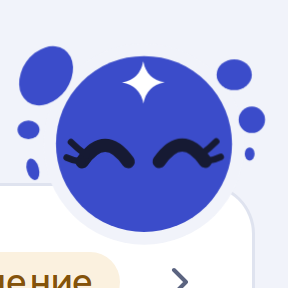
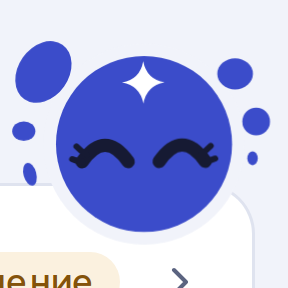
Инвиктия: новое имя, «живые» волосы, ресницы короче
- Маскот переименован в Инвиктию (интерфейс, промпт помощника — в женском роде)
- Волосы-кружочки плавают каждый по-своему; без анимации при prefers-reduced-motion
- Ресницы на 25 % короче

Журнал — запись 55.

diff --git a/src/components/mascots.tsx b/src/components/mascots.tsx
@@ -4,14 +4,14 @@ import type { Achievements } from "@/server/dal/achievements";
 
 export type MascotId = "invictus" | "claude" | "codex" | "dot" | "owl" | "runner" | "rocket" | "cat" | "compass";
 /**
- * Чем открывается: ачивка с сервера, «навигатор» (дошёл до конца трёх маршрутов) или «вопрос» (спросил Инвиктуса) —
+ * Чем открывается: ачивка с сервера, «навигатор» (дошёл до конца трёх маршрутов) или «вопрос» (спросил Инвиктию) —
  * эти два считает браузер; null — открыт сразу.
  */
 export type Unlock = keyof Achievements | "navigator" | "asked" | null;
 
 export const MASCOTS: { id: MascotId; name: string; about: string; unlock: Unlock; hint?: string }[] = [
-  { id: "invictus", name: "Инвиктус", about: "Наша помощница: звёзды в глазах, всегда знает дорогу", unlock: null },
-  { id: "claude", name: "Искорка", about: "Оранжевая подружка Инвиктуса", unlock: "asked", hint: "задать вопрос Инвиктусу" },
+  { id: "invictus", name: "Инвиктия", about: "Наша помощница: звёзды в глазах, всегда знает дорогу", unlock: null },
+  { id: "claude", name: "Искорка", about: "Оранжевая подружка Инвиктии", unlock: "asked", hint: "задать вопрос Инвиктии" },
   { id: "codex", name: "Терминал", about: "Командная строка на ножках", unlock: null },
   { id: "dot", name: "Точка", about: "Просто точка, без лишнего", unlock: null },
   { id: "owl", name: "Сова", about: "Для круглых отличников", unlock: "excellent", hint: "все оценки прошлой сессии «5»" },
@@ -35,7 +35,7 @@ const Eyes = ({ y = -2, dx = 3.2, r = 1.3 }: { y?: number; dx?: number; r?: numb
   </>
 );
 
-/** Звезда Инвиктуса: четырёхлучевая, как на кнопке помощника. На лбу, маленькая — в зрачках. */
+/** Звезда Инвиктии: четырёхлучевая, как на кнопке помощника. На лбу, маленькая — в зрачках. */
 export const STAR_EYE = "M0 -4.6Q0.7 -0.7 4.6 0Q0.7 0.7 0 4.6Q-0.7 0.7 -4.6 0Q-0.7 -0.7 0 -4.6Z";
 
 /** Глаз-«миндалина» (левый; правый — зеркально): острый кончик сверху снаружи и снизу у переносицы. */
@@ -50,7 +50,7 @@ const LASHES =
   "M-2.25 -1Q-2.9 -1 -3.5 -1.05Q-2.9 -0.6 -2.2 -0.5Z";
 
 /**
- * Лицо Инвиктуса в координатах головы (центр 0, 0; радиус 8): звезда на лбу и глаза — открытые
+ * Лицо Инвиктии в координатах головы (центр 0, 0; радиус 8): звезда на лбу и глаза — открытые
  * (белок, тёмная радужка, звезда-зрачок, ресницы) или весёлые закрытые «^ ^» — их включают .mascot-lit и .mascot-joy.
  * Зрачки помечены data-pupil: кнопка помощника сдвигает их к курсору (data-flip — зеркальный правый глаз).
  */
@@ -68,35 +68,51 @@ export function InvictusFace() {
                 <path d={STAR_EYE} transform="translate(0.1 0.1) scale(0.22)" className="fill-m-ic-glyph" />
               </g>
               <path d={LINER} strokeWidth={0.55} strokeLinecap="round" className="fill-none stroke-m-pupil" />
-              <path d={LASHES} strokeWidth={0.25} strokeLinejoin="round" className="fill-m-pupil stroke-m-pupil" />
+              {/* Ресницы чуть короче нарисованных: масштаб к основанию у края глаза. */}
+              <path d={LASHES} transform="translate(-2.1 -1.8) scale(0.75) translate(2.1 1.8)" strokeWidth={0.25} strokeLinejoin="round" className="fill-m-pupil stroke-m-pupil" />
             </g>
           </g>
         ))}
       </g>
       <g className="mascot-eyes-happy">
         <path d="M-5.6 1.6Q-3.5 -1.4 -1.4 1.6M1.4 1.6Q3.5 -1.4 5.6 1.6" strokeWidth={1.2} strokeLinecap="round" className="fill-none stroke-m-pupil" />
-        <path d="M-5.2 1Q-6 0.4 -6.6 -0.2M-5.6 1.6Q-6.4 1.5 -7 1.2M5.2 1Q6 0.4 6.6 -0.2M5.6 1.6Q6.4 1.5 7 1.2" strokeWidth={0.6} strokeLinecap="round" className="fill-none stroke-m-pupil" />
+        <path d="M-5.2 1Q-5.7 0.6 -6.1 0.2M-5.6 1.6Q-6.1 1.55 -6.5 1.35M5.2 1Q5.7 0.6 6.1 0.2M5.6 1.6Q6.1 1.55 6.5 1.35" strokeWidth={0.55} strokeLinecap="round" className="fill-none stroke-m-pupil" />
       </g>
     </>
   );
 }
 
-/** Волосы Инвиктуса — кружочки вокруг головы, отдельно от неё (как на наброске). Координаты головы. */
+/**
+ * Волосы Инвиктии — кружочки вокруг головы, отдельно от неё (как на наброске). Координаты головы.
+ * Каждый кружок плавает по-своему (.mascot-hair, своя амплитуда, длительность и задержка) — волосы «живые».
+ */
+const HAIR: { el: React.ReactElement; dx: number; dy: number; dur: number; delay: number }[] = [
+  { el: <ellipse cx={-8.9} cy={-6.2} rx={2.2} ry={2.9} transform="rotate(35 -8.9 -6.2)" />, dx: -0.63, dy: -0.9, dur: 3.2, delay: 0 },
+  { el: <ellipse cx={8.2} cy={-6.3} rx={1.6} ry={1.4} />, dx: 0.72, dy: -0.72, dur: 2.7, delay: -0.9 },
+  { el: <circle cx={9.8} cy={-2.2} r={1.2} />, dx: 0.9, dy: 0.36, dur: 2.3, delay: -1.6 },
+  { el: <ellipse cx={9.6} cy={0.9} rx={0.45} ry={0.6} />, dx: 0.54, dy: 0.81, dur: 1.9, delay: -0.4 },
+  { el: <ellipse cx={-10.5} cy={-1.3} rx={1} ry={0.85} />, dx: -0.9, dy: 0.27, dur: 2.5, delay: -1.2 },
+  { el: <ellipse cx={-10.1} cy={2.3} rx={0.55} ry={1} transform="rotate(-15 -10.1 2.3)" />, dx: -0.54, dy: 0.9, dur: 2.1, delay: -0.7 },
+];
+
 export function InvictusHair() {
   return (
     <g className="fill-brand-fill">
-      <ellipse cx={-8.9} cy={-6.2} rx={2.2} ry={2.9} transform="rotate(35 -8.9 -6.2)" />
-      <ellipse cx={8.2} cy={-6.3} rx={1.6} ry={1.4} />
-      <circle cx={9.8} cy={-2.2} r={1.2} />
-      <ellipse cx={9.6} cy={0.9} rx={0.45} ry={0.6} />
-      <ellipse cx={-10.5} cy={-1.3} rx={1} ry={0.85} />
-      <ellipse cx={-10.1} cy={2.3} rx={0.55} ry={1} transform="rotate(-15 -10.1 2.3)" />
+      {HAIR.map((h, i) => (
+        <g
+          key={i}
+          className="mascot-hair"
+          style={{ "--hx": `${h.dx}px`, "--hy": `${h.dy}px`, animationDuration: `${h.dur}s`, animationDelay: `${h.delay}s` } as React.CSSProperties}
+        >
+          {h.el}
+        </g>
+      ))}
     </g>
   );
 }
 
 /**
- * Инвиктус — маскот помощника (docs/design/MASCOT.md, набросок NursuUwU 14.11): синяя голова со звездой на лбу,
+ * Инвиктия — маскот помощника (она) (docs/design/MASCOT.md, набросок NursuUwU 14.11): синяя голова со звездой на лбу,
  * глаза-миндалины с ресницами и звёздами-зрачками, волосы-кружочки вокруг. Только голова: тело — лишь там, где
  * хватает места для полноценного арта. Голова парит над линией маршрута, низ — на y = 10, как ступни у остальных.
  */

diff --git a/src/components/assistant.tsx b/src/components/assistant.tsx
@@ -62,7 +62,7 @@ function Answer({ text, onNavigate }: { text: string; onNavigate: () => void }) 
 }
 
 /**
- * Карточка брони от Инвиктуса: что, где, когда, для чего. Бронь создаёт только нажатие «Забронировать» —
+ * Карточка брони от Инвиктии: что, где, когда, для чего. Бронь создаёт только нажатие «Забронировать» —
  * обычная серверная бронь с сессией, проверкой правил и блокировками (как на схеме корпуса).
  */
 function BookingCard({ proposal: p, owner, onNavigate }: { proposal: BookingProposal; owner: string; onNavigate: () => void }) {
@@ -155,7 +155,7 @@ function Chat({ configured, owner, onClose }: { configured: boolean; owner: stri
     setMessages(history);
     setPending(true);
     setError(null);
-    writeLocal(ASKED_KEY, "1"); // пасхалка: вопрос Инвиктусу открывает попутчика Искорку
+    writeLocal(ASKED_KEY, "1"); // пасхалка: вопрос Инвиктии открывает попутчика Искорку
     try {
       const res = await fetch("/api/assistant", {
         method: "POST",
@@ -201,7 +201,7 @@ function Chat({ configured, owner, onClose }: { configured: boolean; owner: stri
         </span>
         <span className="min-w-0 flex-1">
           <h2 id="assistant-title" className="font-semibold">
-            Инвиктус
+            Инвиктия
           </h2>
           <p className="truncate text-xs text-ink-2">Помощник на GigaChat · может ошибаться, сверяйтесь с разделами</p>
         </span>
@@ -236,7 +236,7 @@ function Chat({ configured, owner, onClose }: { configured: boolean; owner: stri
           <div className="min-h-0 flex-1 overflow-y-auto overscroll-contain px-4 py-4">
             {messages.length === 0 && (
               <section aria-label="Примеры вопросов">
-                <p className="mb-3 text-body text-ink-2">Спросите обычными словами: Инвиктус ответит по данным вашего кабинета и даст ссылку на нужный экран.</p>
+                <p className="mb-3 text-body text-ink-2">Спросите обычными словами: Инвиктия ответит по данным вашего кабинета и даст ссылку на нужный экран.</p>
                 <ul className="grid gap-2">
                   {SUGGESTIONS.map((s) => (
                     <li key={s}>
@@ -269,13 +269,13 @@ function Chat({ configured, owner, onClose }: { configured: boolean; owner: stri
               )}
               {pending && (
                 <p role="status" className="mr-auto flex w-fit items-center gap-2 rounded-2xl rounded-bl-md bg-page py-2 pr-4 pl-2 text-sm text-ink-2">
-                  {/* Инвиктус думает: переминается и моргает (без анимации при prefers-reduced-motion). */}
+                  {/* Инвиктия думает: покачивается и моргает (без анимации при prefers-reduced-motion). */}
                   <svg aria-hidden width={30} height={30} viewBox="-16 -18 32 32" className="shrink-0 overflow-visible">
                     <g className="mascot-idle">
                       <MascotFigure id="invictus" />
                     </g>
                   </svg>
-                  Инвиктус смотрит в кабинет…
+                  Инвиктия смотрит в кабинет…
                 </p>
               )}
               {error && (
@@ -339,7 +339,7 @@ export function Assistant({ configured, owner }: { configured: boolean; owner: s
   const fab = useRef<HTMLButtonElement>(null);
   const face = useRef<HTMLSpanElement>(null);
   const [open, setOpen] = useState(false);
-  const [joy, setJoy] = useState(false); // нажали на кнопку: Инвиктус весело жмурится «^ ^», потом открывается окно
+  const [joy, setJoy] = useState(false); // нажали на кнопку: Инвиктия весело жмурится «^ ^», потом открывается окно
   const joyTimer = useRef(0);
   useEffect(() => () => clearTimeout(joyTimer.current), []);
   const close = () => dialog.current?.close();
@@ -360,7 +360,7 @@ export function Assistant({ configured, owner }: { configured: boolean; owner: s
     setOpen(true);
   };
 
-  // Инвиктус следит за курсором почти по всему экрану (до 900 px от кнопки): лицо сдвигается до 5 px и чуть
+  // Инвиктия следит за курсором почти по всему экрану (до 900 px от кнопки): лицо сдвигается до 5 px и чуть
   // наклоняется, зрачки дополнительно смещаются внутри глаз. Только мышь и только без prefers-reduced-motion;
   // стиль меняется напрямую, без перерисовки React.
   useEffect(() => {
@@ -419,12 +419,12 @@ export function Assistant({ configured, owner }: { configured: boolean; owner: s
           }, 380);
         }}
         data-assistant-fab
-        aria-label="Спросить Инвиктуса, помощника по кабинету"
+        aria-label="Спросить Инвиктию, помощницу по кабинету"
         aria-haspopup="dialog"
         aria-expanded={open}
         className={`fixed right-4 bottom-[calc(4.75rem+env(safe-area-inset-bottom))] z-30 grid size-14 place-items-center rounded-full bg-brand-fill text-on-brand ring-4 ring-page transition duration-200 hover:scale-105 active:scale-95 motion-reduce:transition-none md:right-6 md:bottom-6 ${open ? "pointer-events-none scale-75 opacity-0" : ""}`}
       >
-        {/* Кнопка — голова Инвиктуса: волосы-кружочки вокруг круга, звезда на лбу, глаза с ресницами. */}
+        {/* Кнопка — голова Инвиктии: волосы-кружочки вокруг круга, звезда на лбу, глаза с ресницами. */}
         <svg aria-hidden viewBox="-8 -8 16 16" className="pointer-events-none absolute inset-0 size-full overflow-visible">
           <InvictusHair />
         </svg>

diff --git a/src/app/globals.css b/src/app/globals.css
@@ -60,8 +60,8 @@
   --m-ic-sport: #18935a;
   --m-ic-book: #a86f15;
   --m-ic-glyph: #ffffff;
-  --m-lamp: #2bd47a; /* звезда Инвиктуса «загорается» на финише маршрута */
-  --m-pupil: #161a33; /* радужка и «^ ^» Инвиктуса: тёмные в обеих темах, на белом белке */
+  --m-lamp: #2bd47a; /* звезда Инвиктии «загорается» на финише маршрута */
+  --m-pupil: #161a33; /* радужка и «^ ^» Инвиктии: тёмные в обеих темах, на белом белке */
   --focus: #3b4cca;
   --focus-on-brand: #ffffff; /* фокус на брендовой заливке */
   --ease-out: cubic-bezier(0.22, 1, 0.36, 1);
@@ -424,7 +424,19 @@ body {
     rotate: -25deg;
   }
 }
+/* Волосы Инвиктии: каждый кружок медленно плавает в свою сторону (амплитуда — --hx/--hy, темп — в разметке). */
+@keyframes mascot-hair {
+  50% {
+    translate: var(--hx) var(--hy);
+    scale: 1.1;
+  }
+}
 @media (prefers-reduced-motion: no-preference) {
+  .mascot-hair {
+    animation: mascot-hair 2.6s ease-in-out infinite;
+    transform-box: fill-box;
+    transform-origin: 50% 50%;
+  }
   .mascot-walk {
     animation: mascot-bob 0.36s ease-in-out infinite;
   }
@@ -475,7 +487,7 @@ body {
 .mascot-sticker {
   filter: drop-shadow(0 0 0.6px var(--m-floor)) drop-shadow(0 0 0.6px var(--m-floor));
 }
-/* Глаза Инвиктуса: обычно открыты; на финише (.mascot-lit) и при нажатии на кнопку (.mascot-joy) — «^ ^». */
+/* Глаза Инвиктии: обычно открыты; на финише (.mascot-lit) и при нажатии на кнопку (.mascot-joy) — «^ ^». */
 .mascot-eyes-happy,
 .mascot-lit .mascot-eyes-open,
 .mascot-joy .mascot-eyes-open {
@@ -485,7 +497,7 @@ body {
 .mascot-joy .mascot-eyes-happy {
   display: inline;
 }
-/* Финиш: звезда на лбу Инвиктуса загорается зелёным и светится. */
+/* Финиш: звезда на лбу Инвиктии загорается зелёным и светится. */
 .mascot-lit .mascot-star {
   fill: var(--m-lamp);
   filter: drop-shadow(0 0 1.5px var(--m-lamp));

diff --git a/src/server/dal/rooms.ts b/src/server/dal/rooms.ts
@@ -292,7 +292,7 @@ export async function findFreeRooms(args: unknown, now = new Date()) {
   return { day, after: after ?? null, before: before ?? null, minMinutes, building: building ?? null, rooms };
 }
 
-// ─── Бронь через помощника (Инвиктус) ─────────────────────────────────────────────────────────────────────
+// ─── Бронь через помощника (Инвиктия) ─────────────────────────────────────────────────────────────────────
 // Модель только готовит бронь: этот разбор ничего не пишет. Бронирует студент нажатием «Забронировать» в карточке —
 // это обычный bookRoom с сессией, zod и блокировками (решение капитана 13.11; docs/plans/assistant.md).
 const PrepareInput = z.object({
@@ -377,6 +377,6 @@ export async function prepareBooking(
  */
 export async function bookRoomAs(owner: string, input: unknown): Promise<RoomActionResult> {
   const { userId } = await requireStudent();
-  if (typeof owner !== "string" || owner !== userId) return { ok: false, error: "Вы вошли под другим аккаунтом. Начните новый разговор с Инвиктусом." };
+  if (typeof owner !== "string" || owner !== userId) return { ok: false, error: "Вы вошли под другим аккаунтом. Начните новый разговор с Инвиктией." };
   return bookRoom(input);
 }

diff --git a/src/server/ai/prompt.ts b/src/server/ai/prompt.ts
@@ -5,7 +5,7 @@ import type { AssistantContext } from "./context";
 // данные текущего студента, у модели нет инструментов записи, а ссылки фильтрует сервер.
 
 export function systemPrompt(ctx: AssistantContext) {
-  return `Ты — Инвиктус, помощник «Спросить по кабинету» в личном кабинете студента вымышленного университета University (цифровой деканат).
+  return `Ты — Инвиктия, помощница «Спросить по кабинету» в личном кабинете студента вымышленного университета University (цифровой деканат). О себе говори в женском роде.
 
 Правила:
 1. Отвечай по-русски, на «вы», дружелюбно и коротко, без вступлений и извинений. Сначала прямой ответ, потом одна-две детали. Если перечисляешь занятия, слоты или заявки — называй все подходящие из снимка, без пропусков, по одной строке на каждое.

diff --git a/src/app/(cabinet)/rooms/actions.ts b/src/app/(cabinet)/rooms/actions.ts
@@ -15,7 +15,7 @@ export async function cancelRoomBookingAction(id: string): Promise<RoomActionRes
   return r;
 }
 
-/** Бронь из карточки Инвиктуса: сервер сверяет владельца разговора с сессией перед записью. */
+/** Бронь из карточки Инвиктии: сервер сверяет владельца разговора с сессией перед записью. */
 export async function bookFromAssistantAction(owner: string, input: { roomId: string; day: string; start: string; minutes: number; purpose: string }): Promise<RoomActionResult> {
   const r = await bookRoomAs(String(owner), input);
   revalidatePath("/rooms", "layout");

diff --git a/src/components/local-store.ts b/src/components/local-store.ts
@@ -6,7 +6,7 @@ import { useSyncExternalStore } from "react";
 // в памяти вкладки. На сервере и при гидрации — значения по умолчанию (useSyncExternalStore, без расхождений).
 export const MASCOT_KEY = "campus-mascot";
 export const DONE_KEY = "campus-routes-done";
-/** «Задавал вопрос Инвиктусу»: ставит окно помощника, открывает Искорку. */
+/** «Задавал вопрос Инвиктии»: ставит окно помощника, открывает Искорку. */
 export const ASKED_KEY = "campus-asked";
 
 const memory = new Map<string, string>();

diff --git a/docs/design/MASCOT.md b/docs/design/MASCOT.md
@@ -1,11 +1,11 @@
-# Инвиктус: маскот помощника
+# Инвиктия: маскот помощника
 
 Запрос капитана: «нужен концепт попутчика нашего базового… звезда как глаз — то, что у нас в кругляшке; такой же
-кругляш, но с мини-телом и ногами. Наш будет называться Инвиктус».
+кругляш, но с мини-телом и ногами. Наш будет называться Инвиктус». 14.11 NursuUwU переименовала маскота в **Инвиктию** — она.
 
 ## Откуда он
 
-Инвиктус вырос из кнопки помощника в правом нижнем углу кабинета: синий круг со звездой. Звезда уже «следит» за
+Инвиктия выросла из кнопки помощника в правом нижнем углу кабинета: синий круг со звездой. Звезда уже «следит» за
 курсором (глаз), поэтому круг стал головой, звезда — единственным глазом, снизу появились мини-тело, ручки и ножки.
 Имя — от латинского *invictus*, «непобедимый»: помощник, который не теряется ни в корпусе, ни в расписании.
 
@@ -13,21 +13,22 @@
 
 Версия 2 (14.11) — по [наброску NursuUwU](img/invictus-sketch-nursu.png), перенесена в SVG Claude Code
 ([итог](img/invictus-svg.png)). Первая версия — круг с одной звездой-глазом — не читалась как лицо. По задумке автора
-наброска Инвиктус — «она».
+наброска это «она».
 
 - **Только голова.** Тело (из наброска) — лишь там, где хватает места для полноценного арта; в интерфейсе — голова,
   которая парит над линией маршрута. Голова — круг `--brand-fill` с тонкой обводкой цветом пола схемы (`--m-floor`).
-- **Волосы** — кружочки разного размера вокруг головы, отдельно от неё (`InvictusHair`).
+- **Волосы** — кружочки разного размера вокруг головы, отдельно от неё (`InvictusHair`). Каждый медленно плавает в свою
+  сторону и чуть «дышит» (`.mascot-hair`; своя амплитуда, темп и задержка), при `prefers-reduced-motion` — неподвижны.
 - **Звезда на лбу** — четырёхлучевая `--on-brand` (`STAR_EYE`), от значка помощника. На финише маршрута загорается
   зелёным (`--m-lamp`).
 - **Глаза** — «миндалины»: белок `--m-ic-glyph`, тёмная радужка `--m-pupil` (одинаковая в обеих темах), звезда-зрачок,
-  подводка и три ресницы-клинышка. Моргают раз в несколько секунд.
+  подводка и три ресницы-клинышка (на 25 % короче первого варианта). Моргают раз в несколько секунд.
 - **Эмоции** (`InvictusFace`): глаза открыты; весёлые закрытые «^ ^» с ресничками — при нажатии на кнопку помощника
   (`.mascot-joy`) и на финише маршрута (`.mascot-lit`). Подмигивание из наброска — запас.
 - **Кнопка помощника** в углу — та же голова: круг кнопки, волосы вокруг, лицо следит за курсором почти по всему
-  экрану (до 900 px), зрачки дополнительно смещаются внутри глаз. По нажатию Инвиктус жмурится, затем открывается окно.
+  экрану (до 900 px), зрачки дополнительно смещаются внутри глаз. По нажатию Инвиктия жмурится, затем открывается окно.
 
-Все цвета — токены темы, в тёмной теме Инвиктус светлеет вместе с брендом. Рисунок собственный, без чужих логотипов.
+Все цвета — токены темы, в тёмной теме Инвиктия светлеет вместе с брендом. Рисунок собственный, без чужих логотипов.
 
 ## Позы и где живёт
 
@@ -45,13 +46,13 @@
 
 ## Друзья-попутчики
 
-Инвиктус — попутчик по умолчанию. Остальных открывают ачивки (окно выбора — правая кнопка мыши по схеме маршрута
-или кнопка «Попутчик»): Искорка (вопрос Инвиктусу), Сова (все «5» прошлой сессии), Бегун (60 баллов по физкультуре),
+Инвиктия — попутчица по умолчанию. Остальных открывают ачивки (окно выбора — правая кнопка мыши по схеме маршрута
+или кнопка «Попутчик»): Искорка (вопрос Инвиктии), Сова (все «5» прошлой сессии), Бегун (60 баллов по физкультуре),
 Ракета (все 100), Кот (бронь аудитории), Компас (три пройденных маршрута); Терминал и Точка открыты сразу.
 Все фигурки выровнены по росту и стоят ступнями на линии маршрута.
 
 ## Правила
 
-- Голос помощника в тексте — «Инвиктус»; в системном промпте он так и представляется.
+- Голос помощника в тексте — «Инвиктия»; в системном промпте она так и представляется и говорит о себе в женском роде.
 - Маскот не заменяет текст: шаги маршрута и ответы помощника читаются без него; фигурки декоративны (`aria-hidden`).
-- Не использовать маскота для давления («Инвиктус расстроится») и в сообщениях об ошибках оценок или долгах.
+- Не использовать маскота для давления («Инвиктия расстроится») и в сообщениях об ошибках оценок или долгах.

diff --git a/docs/DECISIONS.md b/docs/DECISIONS.md
@@ -32,3 +32,4 @@
 | 2026-11-13 | Развёртывание: Docker Compose (PostgreSQL 18, Next.js `output: "standalone"`, Caddy) вместо Nginx; миграции отдельным сервисом при каждом запуске, демо-данные — разовой командой с `SEED_ALLOW_RESET=1` | Caddy сам получает и продлевает сертификат Let's Encrypt — меньше ручных шагов на сервере; standalone-образ без исходников и dev-зависимостей; один процесс Node (лимиты в памяти) | Claude, план одобрен капитаном 13.11 |
 | 2026-11-14 | Знак NursuUwU «Ui» — единый знак: меню, вход, фавикон, иконки приложения | один знак везде; работа участника команды по задаче «Знак» (TEAM.md) | капитан (слияние ветки) + Claude |
 | 2026-11-14 | Шрифты для PDF отчёта не храним в репозитории — DejaVu Sans из системы | файлы Liberation 1.07.4 оказались под GPLv2 с исключением, а правила проекта — только разрешительные лицензии | Claude по ревью Codex 51 |
+| 2026-11-14 | Маскот помощника — Инвиктия (она): только голова с волосами-кружочками, тело — лишь в полноценном арте | автор наброска маскота NursuUwU; в системном промпте помощница говорит о себе в женском роде | NursuUwU + Claude |
